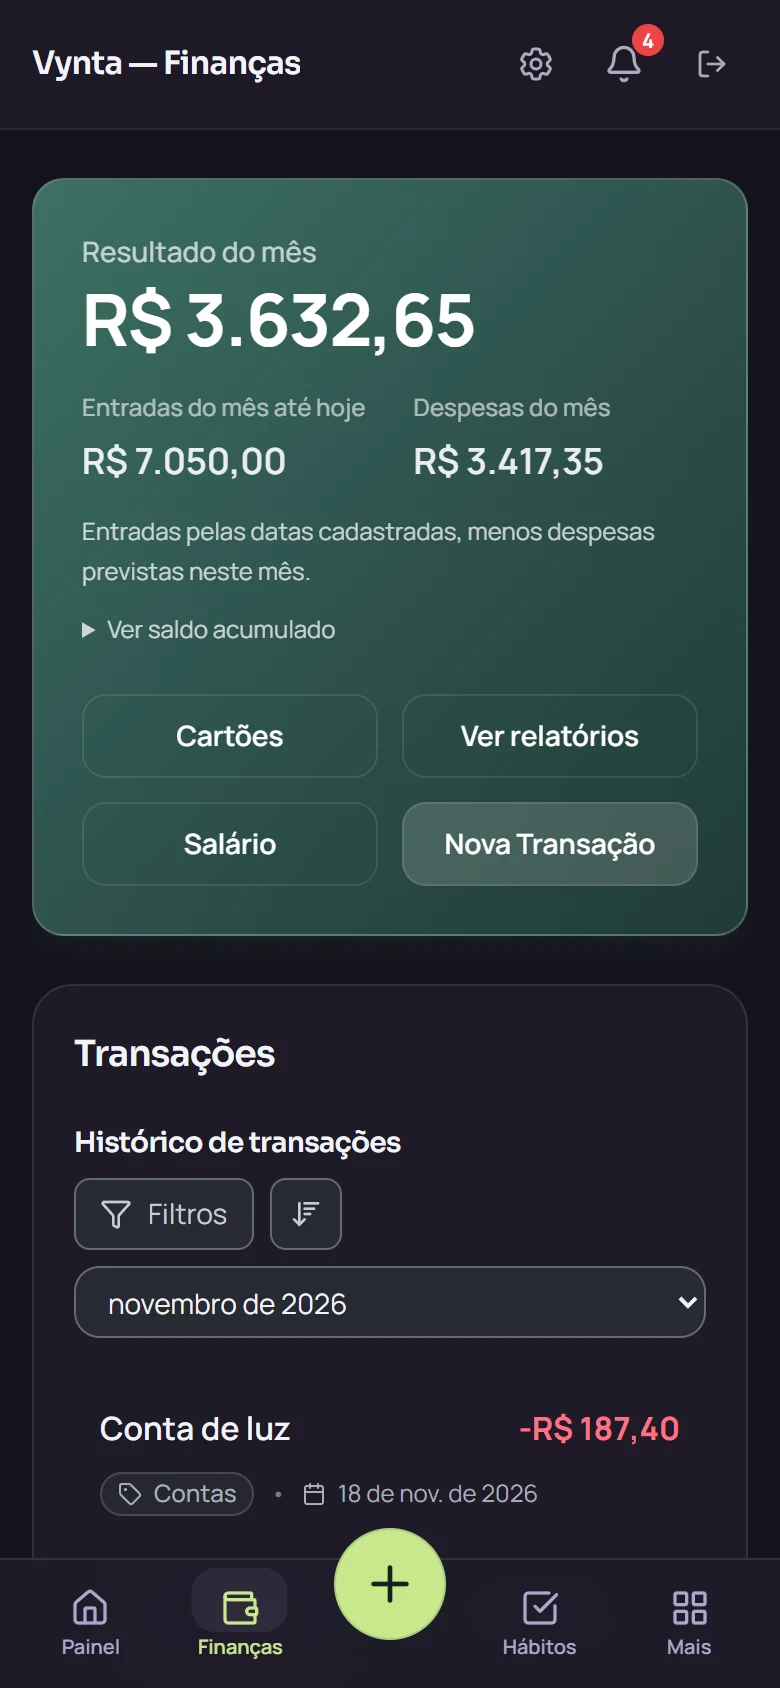
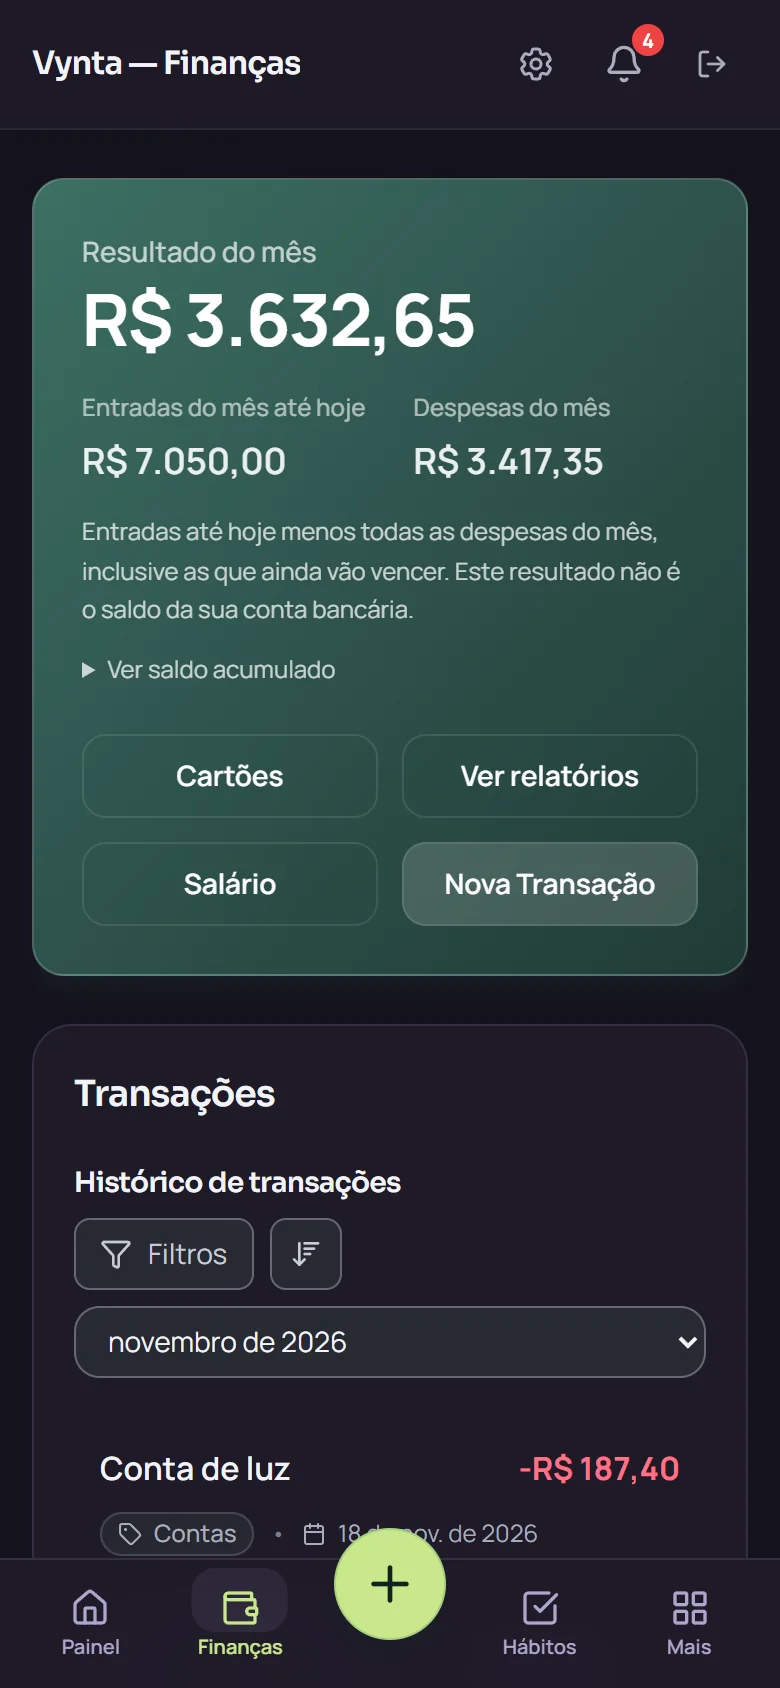
feat: bring Broto to landing and clarify monthly results

diff --git a/app/page.tsx b/app/page.tsx
@@ -245,8 +245,8 @@ export default function LandingPage() {
           <a href="#recursos" className="rise mt-6 inline-flex items-center gap-2 text-sm font-semibold text-sprout-lime underline decoration-brand-300 underline-offset-4" style={{ ['--d' as string]: '0.32s' }}>Dá uma olhada por dentro <ArrowRight className="h-4 w-4" /></a>
         </div>
         <div className="rise-soft relative mx-auto h-[420px] w-full max-w-[480px] sm:h-[510px]" style={{ ['--d' as string]: '0.2s' }}>
-          <div className="absolute right-0 top-0 w-[78%] overflow-hidden rounded-[2.5rem] bg-sprout-lavender shadow-[0_24px_70px_-35px_rgba(41,78,72,0.3)]" data-parallax="0.025">
-            <Image src="/assets/logo/mascot.webp" alt="Broto do Vynta, com duas folhas lima e um sorriso" width={640} height={640} priority sizes="(min-width: 640px) 375px, 70vw" className="h-auto w-full" />
+          <div className="absolute right-0 top-0 w-[70%] rounded-full bg-[radial-gradient(ellipse,rgba(173,166,206,0.13),transparent_70%)]" data-parallax="0.025">
+            <Image src="/assets/mascot/guide-pointing-v1.webp" alt="Brotô, o personagem do Vynta, sorrindo e apontando" width={640} height={679} priority sizes="(min-width: 640px) 336px, 65vw" className="h-auto w-full" />
           </div>
           <div className="absolute bottom-6 left-0 w-[44%] sm:bottom-5" data-parallax="-0.025">
             <Phone src="/images/landing/finances-mobile.webp" alt="Finanças do Vynta: saldo, receitas e despesas do mês" priority sizes="(min-width: 640px) 210px, 40vw" />
@@ -595,7 +595,7 @@ export default function LandingPage() {
             </TrackedCTA>
             <p className="text-xs text-white/70">Sem cartão. Sem cobrança automática no fim do teste.</p>
           </div>
-          <Image src="/assets/logo/mascot.webp" alt="" width={320} height={320} sizes="240px" className="lp-float mx-auto hidden w-full rounded-[2rem] md:block" />
+          <Image src="/assets/mascot/celebrating-v1.webp" alt="Brotô comemorando com os braços abertos" width={640} height={679} sizes="(min-width: 768px) 240px, 128px" className="lp-float order-first mx-auto h-auto w-32 md:order-last md:w-full" />
         </div>
       </section>
 

diff --git a/app/dashboard/DashboardClient.tsx b/app/dashboard/DashboardClient.tsx
@@ -394,18 +394,19 @@ export default function DashboardClient({
                     </p>
                   </div>
                   <div className="p-4 rounded-2xl bg-white dark:bg-surface-800/40 border border-surface-150 dark:border-surface-700/50">
-                    <p className="text-xs font-medium text-surface-500 dark:text-surface-400">Receitas</p>
+                    <p className="text-xs font-medium text-surface-500 dark:text-surface-400">Entradas do mês até hoje</p>
                     <p className="text-xl font-bold mt-1 text-emerald-600 dark:text-emerald-400 truncate">
                       {formatCurrency(balance.income)}
                     </p>
                   </div>
                   <div className="p-4 rounded-2xl bg-white dark:bg-surface-800/40 border border-surface-150 dark:border-surface-700/50">
-                    <p className="text-xs font-medium text-surface-500 dark:text-surface-400">Despesas</p>
+                    <p className="text-xs font-medium text-surface-500 dark:text-surface-400">Despesas do mês</p>
                     <p className="text-xl font-bold mt-1 text-rose-600 dark:text-rose-400 truncate">
                       {formatCurrency(balance.expense)}
                     </p>
                   </div>
                 </div>
+                <p className="text-xs leading-relaxed text-surface-500 dark:text-surface-400">O resultado desconta também despesas que ainda vão vencer no mês. Receitas futuras entram na data cadastrada. Não é o saldo da sua conta bancária.</p>
               </div>
             </div>
 

diff --git a/app/finances/FinancesClient.tsx b/app/finances/FinancesClient.tsx
@@ -605,7 +605,7 @@ export default function FinancesClient({
                   <p className="text-lg font-semibold text-white/90">{formatCurrency(monthly.expense)}</p>
                 </div>
               </div>
-              <p className="mt-3 text-xs leading-relaxed text-white/75">Entradas pelas datas cadastradas, menos despesas previstas neste mês.</p>
+              <p className="mt-3 text-xs leading-relaxed text-white/75">Entradas até hoje menos todas as despesas do mês, inclusive as que ainda vão vencer. Este resultado não é o saldo da sua conta bancária.</p>
               {monthly.pendingIncome > 0 && <p className="mt-2 text-sm text-white/90">Ainda previsto para entrar: <strong>{formatCurrency(monthly.pendingIncome)}</strong></p>}
               <details className="mt-3 text-xs text-white/75"><summary className="cursor-pointer">Ver saldo acumulado</summary><p className="mt-2">{formatCurrency(balance.balance)} até hoje, incluindo meses anteriores. Não é uma consulta ao banco.</p></details>
             </div>

diff --git a/marketing/branding/2026-11-rebrand/IMPLEMENTACAO.md b/marketing/branding/2026-11-rebrand/IMPLEMENTACAO.md
@@ -349,3 +349,43 @@ manifest estável, cache v14 e fila preservada. Código do app atualiza após de
 ícone instalado pode depender de confirmação no Chrome ou nova adição no iOS.
 Fontes e limitações em `PWA-ATUALIZACAO.md`. Não recomendar reinstalação geral.
 Nenhuma alteração de app desde os testes aprovados de bdb2448 nesta etapa.
+
+## Brotô na landing e clareza financeira — 14/11/2026
+
+Após o responsável informar que a versão anterior já está em produção,
+checkout atualizado para main por fast-forward, preservando arquivos locais.
+Pedido adicional: Brotô nas ilustrações da landing. Abertura usa a pose
+apontando ao lado do telefone; CTA final usa a pose celebrando, também no
+mobile. Assets WebP aprovados, sem gerar logo ou personagem novos. Cabeçalho,
+rodapé, notificações e ícones continuam com B1. Nenhuma dependência adicionada.
+
+Conferência financeira feita em transação de banco somente leitura, limitada
+à conta indicada pelo titular. Comparação dos mesmos dados com os cálculos
+anteriores confirmou a separação entre receitas futuras, resultado do mês
+e acumulado. Nenhum lançamento, recorrência ou salário foi alterado. Dados
+pessoais e valores da conta não fazem parte deste documento nem do commit.
+Finanças e Painel agora explicam explicitamente que o resultado desconta
+despesas ainda a vencer e não corresponde ao saldo bancário.
+
+Quatro prints demo recapturados: Painel e Finanças, 780×1688 mobile e
+1600×1000 desktop, WebP. Conta existente, sem seed/recriação. Fontes, imagens
+e render aguardados; quatro exports inspecionados. Release notice simulado
+na revisão, sem consumir recibos reais.
+
+Validação em produção local com Chrome: landing em 320/390/430/768/1440,
+temas do sistema claro/escuro e movimento reduzido; Finanças/Painel em
+320/390/1440, claro/escuro. 22 combinações, documento sem overflow horizontal
+e sem erro JavaScript. O carrossel mantém sua rolagem horizontal intencional.
+Entrada normal do Brotô também verificada em 390 px (imagem carregada,
+opacidade final 1). Capturas locais em `.cache/landing-broto-review/`.
+
+Passaram `npx tsc --noEmit -p .`, `npm run build`,
+`npx tsx scripts/check-security.ts` e `git diff --check`.
+First Load JS sem aumento: landing 117 kB, Painel 119 kB, Finanças 146 kB,
+Agenda/Hábitos 120 kB. Alterações apenas visuais/textuais, sem mudar a
+matemática financeira, schema, service worker ou fila offline.
+
+Ícone Apple público respondeu 200 e é idêntico por SHA-256 ao aprovado;
+orientação específica para instalações antigas no Safari/iPhone em
+`PWA-ATUALIZACAO.md`. Não houve teste em iPhone físico, teclado nativo ou
+reinstalação real do PWA. Sem novo deploy nesta etapa.

diff --git a/marketing/branding/README.md b/marketing/branding/README.md
@@ -31,7 +31,10 @@ com braços, pés e expressões em `public/assets/mascot/`. Essa autorização v
 para o personagem auxiliar; **a logo B1 e os avatares aprovados não mudam**.
 Poses: apontando, preocupado e celebrando, com PNG transparente e WebP para UI.
 Nome do personagem: **Brotô**. Ele acolhe, ensina e celebra pequenos passos, sem
-julgar o usuário. O tutorial usa o export leve; a landing mantém a matriz aprovada.
+julgar o usuário. Tutorial e ilustrações da landing usam os exports WebP leves.
+Na landing, Brotô aponta junto ao produto e celebra no convite final, inclusive
+no mobile (solicitação aprovada em 14/11). Cabeçalho, rodapé, notificações e
+ícones do aplicativo continuam usando o símbolo B1.
 Pacote de anúncio em `marketing/instagram/15-nova-fase/`, com publicação
 condicionada à versão nova estar disponível.
 
@@ -91,7 +94,9 @@ com valores são ilustrativas. Fontes e auditoria: `2026-11-rebrand/COPY.md`.
 1. Ler este guia e `marketing/README.md` antes de copiar qualquer pasta.
 2. Usar os assets oficiais e a paleta atual; nunca extrair a logo de um PNG antigo.
 3. Os 12 prints em `public/images/landing/` foram recapturados após os ajustes
-   finais de sidebar, lavanda e mobile em 13/11/2026. Recapturar quando o layout
+   finais de sidebar, lavanda e mobile em 13/11/2026. Painel e Finanças (mobile
+   e desktop) foram atualizados em 14/11 após a explicação do resultado mensal.
+   Recapturar quando o layout
    mudar novamente (ver `2026-11-rebrand/IMPLEMENTACAO.md`).
    Não usar imagens legadas soltas em `public/images/` como fonte de novos posts.
 4. Posts já exportados não mudam quando o asset é trocado. PNGs antigos são

diff --git a/AGENTS.md b/AGENTS.md
@@ -89,7 +89,7 @@
 - Identidade oficial: `marketing/branding/README.md`. Símbolo B1 aprovado; substitui as camadas azul/roxo. Novos materiais devem usar `public/assets/logo/broto-mark.png` e `mascot.webp`.
 - Paleta: lavanda escura (#14121C), verde profundo, lima e lavanda; creme apenas como apoio. Não copiar branding neon antigo de posts arquivados. `scripts/build-brand-assets.mjs` gera exports técnicos preservando a matriz.
 - Copy atual e evidências: `marketing/branding/2026-11-rebrand/COPY.md`. Não transformar tempos ilustrativos (5s/30s) em garantias. CTA: teste de 7 dias, não plano gratuito permanente.
-- Personagem auxiliar aprovado, chamado **Brotô**: poses em `public/assets/mascot/` (apontando, preocupado, celebrando). Não substitui logo, avatares ou ícones. Tutorial usa WebP leve; matrizes PNG ficam para artes. Pacote de anúncio com data proposta no calendário em `marketing/instagram/15-nova-fase/`.
+- Personagem auxiliar aprovado, chamado **Brotô**: poses em `public/assets/mascot/` (apontando, preocupado, celebrando). Não substitui logo, avatares ou ícones. Tutorial e ilustrações da landing usam WebP leve; matrizes PNG ficam para artes. Na landing, aponta junto ao produto e celebra no CTA final, também no mobile. Cabeçalho e notificações mantêm B1. Pacote de anúncio com data proposta no calendário em `marketing/instagram/15-nova-fase/`.
 
 ## Landing page (`app/page.tsx`)
 - Copy: siga a skill `.devin/skills/copy-conversao` (pesquisa, regras, fatos do produto). Nunca invente depoimento/número de usuários.

diff --git a/marketing/branding/2026-11-rebrand/PWA-ATUALIZACAO.md b/marketing/branding/2026-11-rebrand/PWA-ATUALIZACAO.md
@@ -34,3 +34,16 @@ Fontes primárias consultadas em 14/11/2026:
 [WebKit — precedência de apple-touch-icon](https://webkit.org/blog/13878/web-push-for-web-apps-on-ios-and-ipados/).
 O guia geral do web.dev é de 2022; detalhes atuais do Chrome seguem o artigo de
 2026. Não houve validação física de iPhone/Safari nesta entrega.
+
+## Conferência em produção — 14/11/2026
+
+O HTML público de `https://www.vynta.digital` referencia
+`/apple-icon.png?d67181b6cf379d94`. O recurso respondeu 200 e seu SHA-256
+coincidiu com `app/apple-icon.png` aprovado. Portanto, o ícone Apple novo está
+publicado; isso não comprova atualização de uma instalação antiga do iOS.
+
+Para uma instalação no Safari/iPhone que ainda exiba o ícone antigo:
+conferir a sincronização de todos os lançamentos offline antes de remover o
+app antigo; abrir o Vynta no Safari e usar Compartilhar → Adicionar à Tela de
+Início. Pode ser necessário entrar novamente e reativar notificações. Não
+limpar os dados do Safari nem descartar a fila offline para trocar o ícone.
